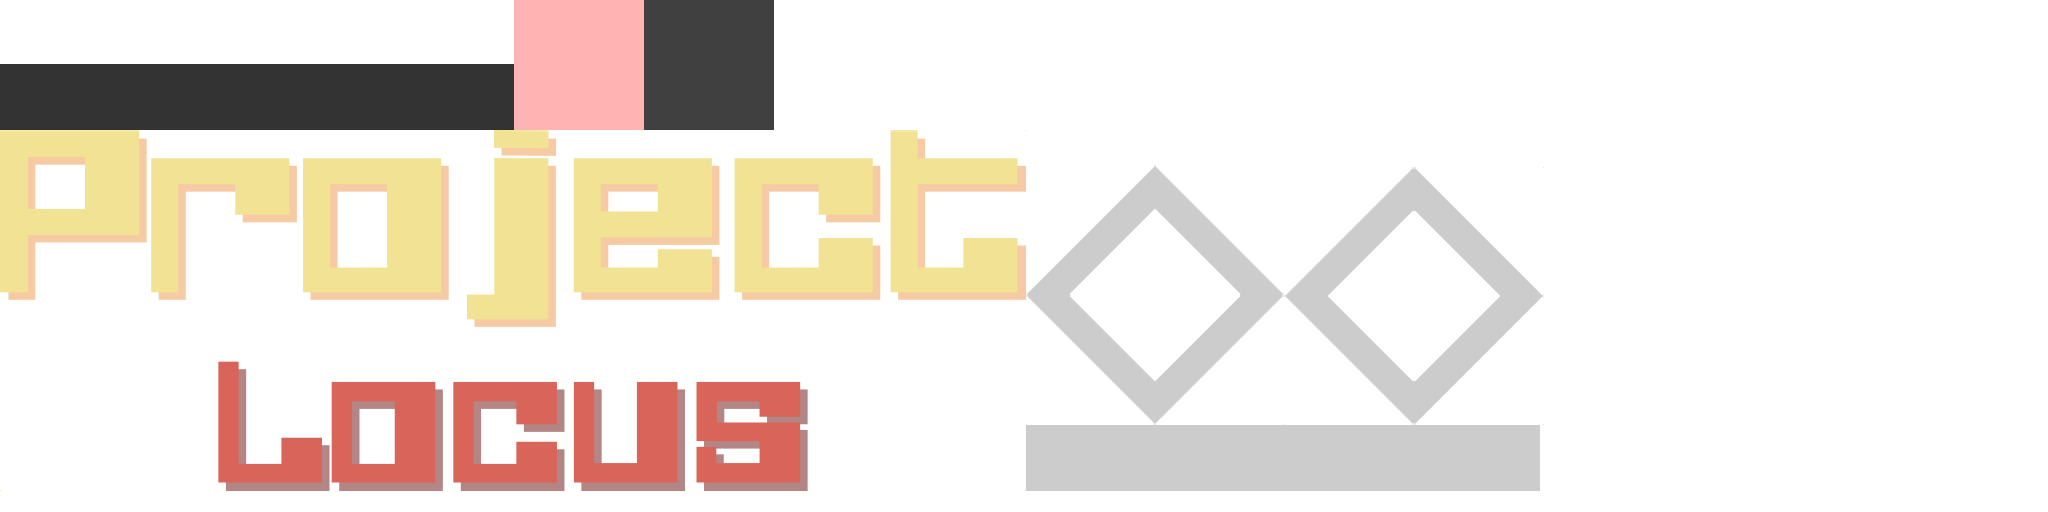
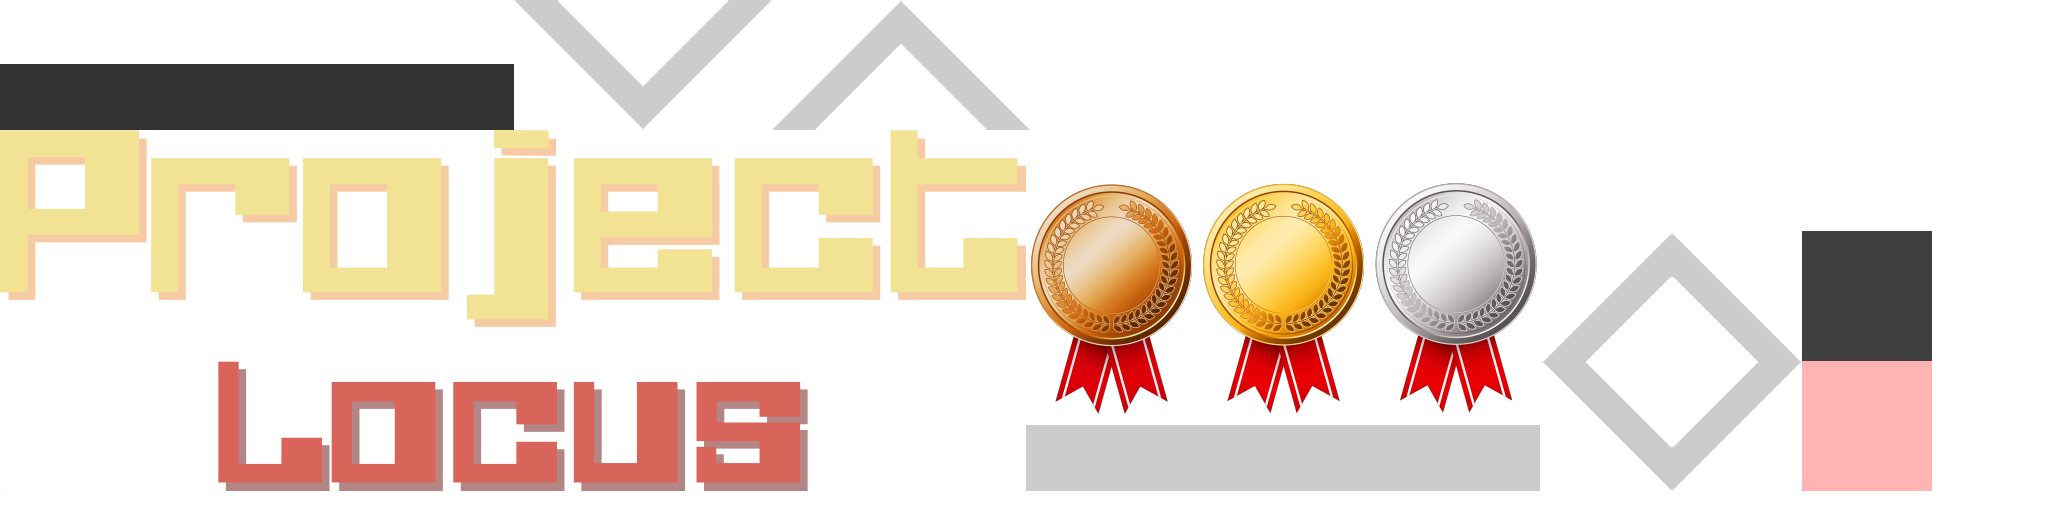
Added Medal Textures

Changed region(s): [[0.5, 0.3438, 0.9688, 0.9688], [0.25, 0.0, 0.5, 0.2812]]

diff --git a/core/src/com/locus/game/screens/ScoreBoardScreen.java b/core/src/com/locus/game/screens/ScoreBoardScreen.java
@@ -9,6 +9,7 @@ import com.badlogic.gdx.graphics.GL20;
 import com.badlogic.gdx.graphics.OrthographicCamera;
 import com.badlogic.gdx.graphics.g2d.Sprite;
 import com.badlogic.gdx.graphics.g2d.SpriteBatch;
+import com.badlogic.gdx.graphics.g2d.TextureRegion;
 import com.badlogic.gdx.input.GestureDetector;
 import com.badlogic.gdx.maps.tiled.TiledMapRenderer;
 import com.badlogic.gdx.maps.tiled.renderers.OrthogonalTiledMapRenderer;
@@ -54,6 +55,7 @@ public class ScoreBoardScreen implements Screen, InputProcessor, GestureDetector
     private TiledMapRenderer tiledMapRenderer;
     private InputMultiplexer inputMultiplexer;
     private ArrayList<PlayerResultData> playerResultList;
+    private TextureRegion goldMedalTexture, silverMedalTexture, bronzeMedalTexture;
 
     private static final int ROW_PADDING = 50, COLUMN_PADDING = 50, SHIP_PADDING = 34,
             MARGIN_TOP = 80;
@@ -102,6 +104,10 @@ public class ScoreBoardScreen implements Screen, InputProcessor, GestureDetector
         inputMultiplexer.addProcessor(this);
 
         isTiledMapCreated = false;
+
+        goldMedalTexture = projectLocus.uiTextureAtlas.findRegion("goldMedal");
+        silverMedalTexture = projectLocus.uiTextureAtlas.findRegion("silverMedal");
+        bronzeMedalTexture = projectLocus.uiTextureAtlas.findRegion("bronzeMedal");
 
     }
 
